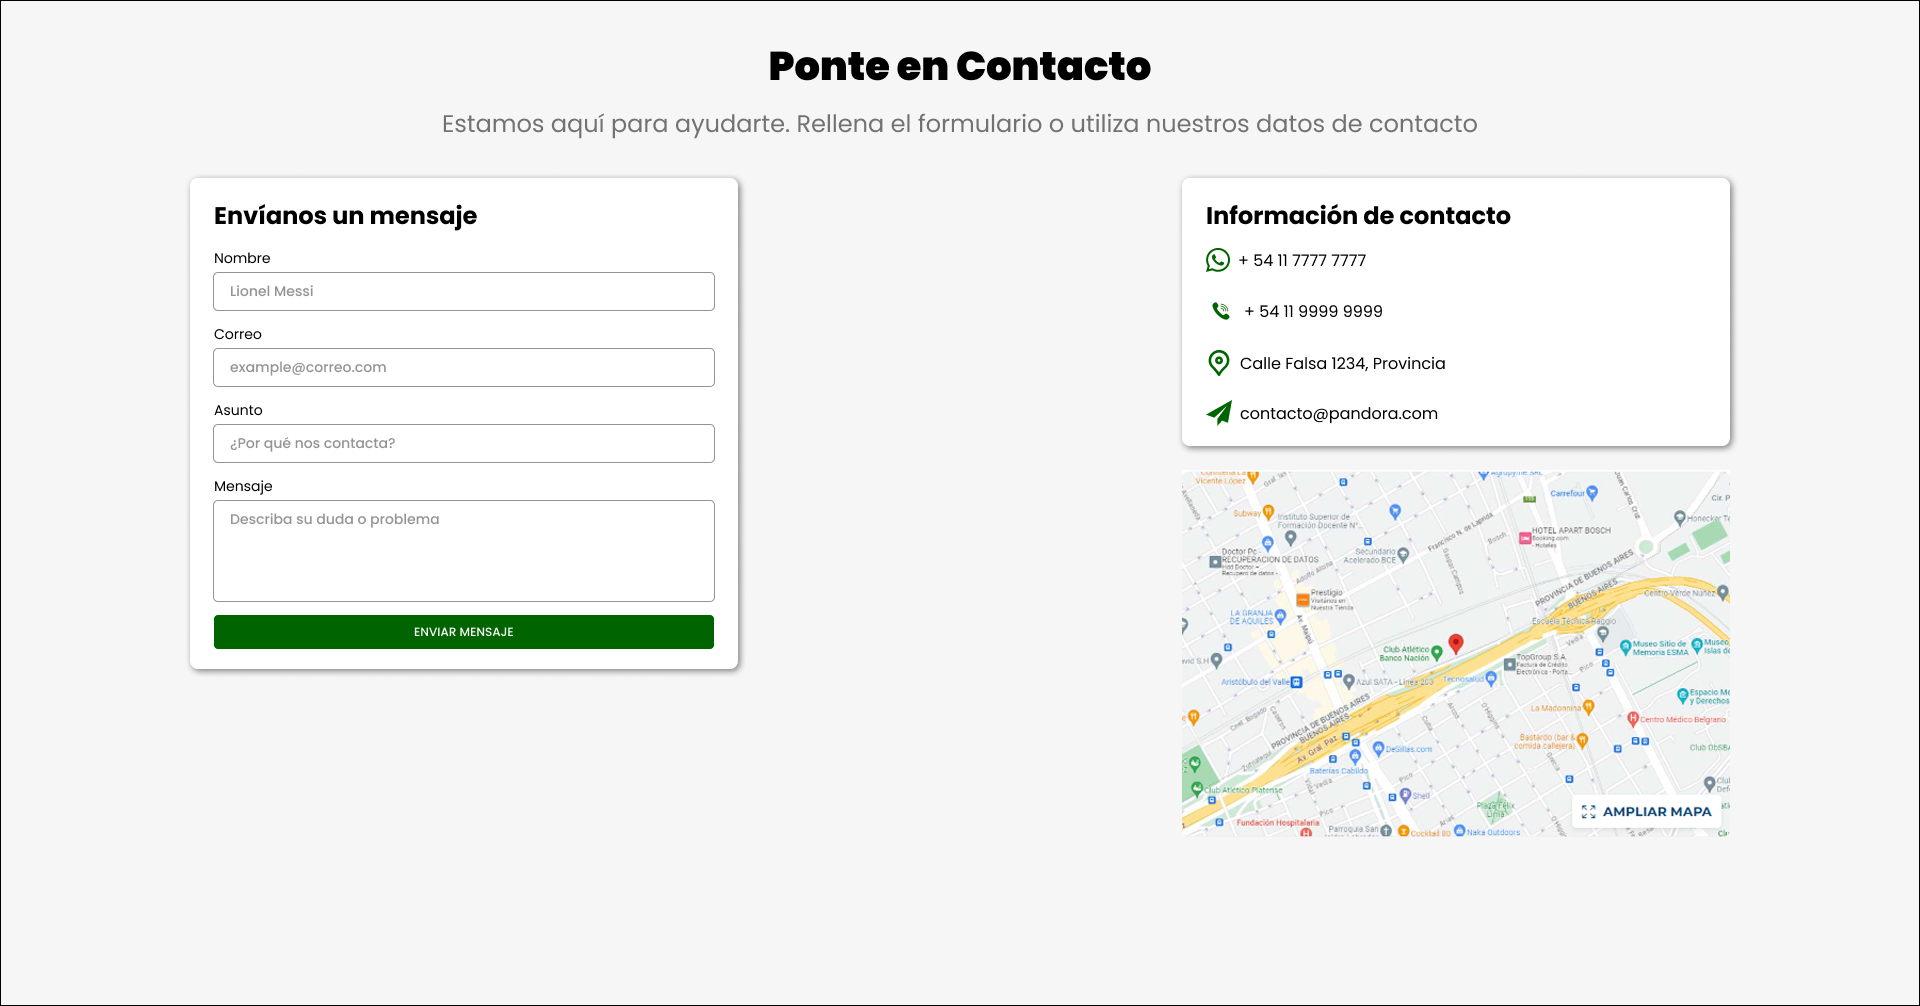
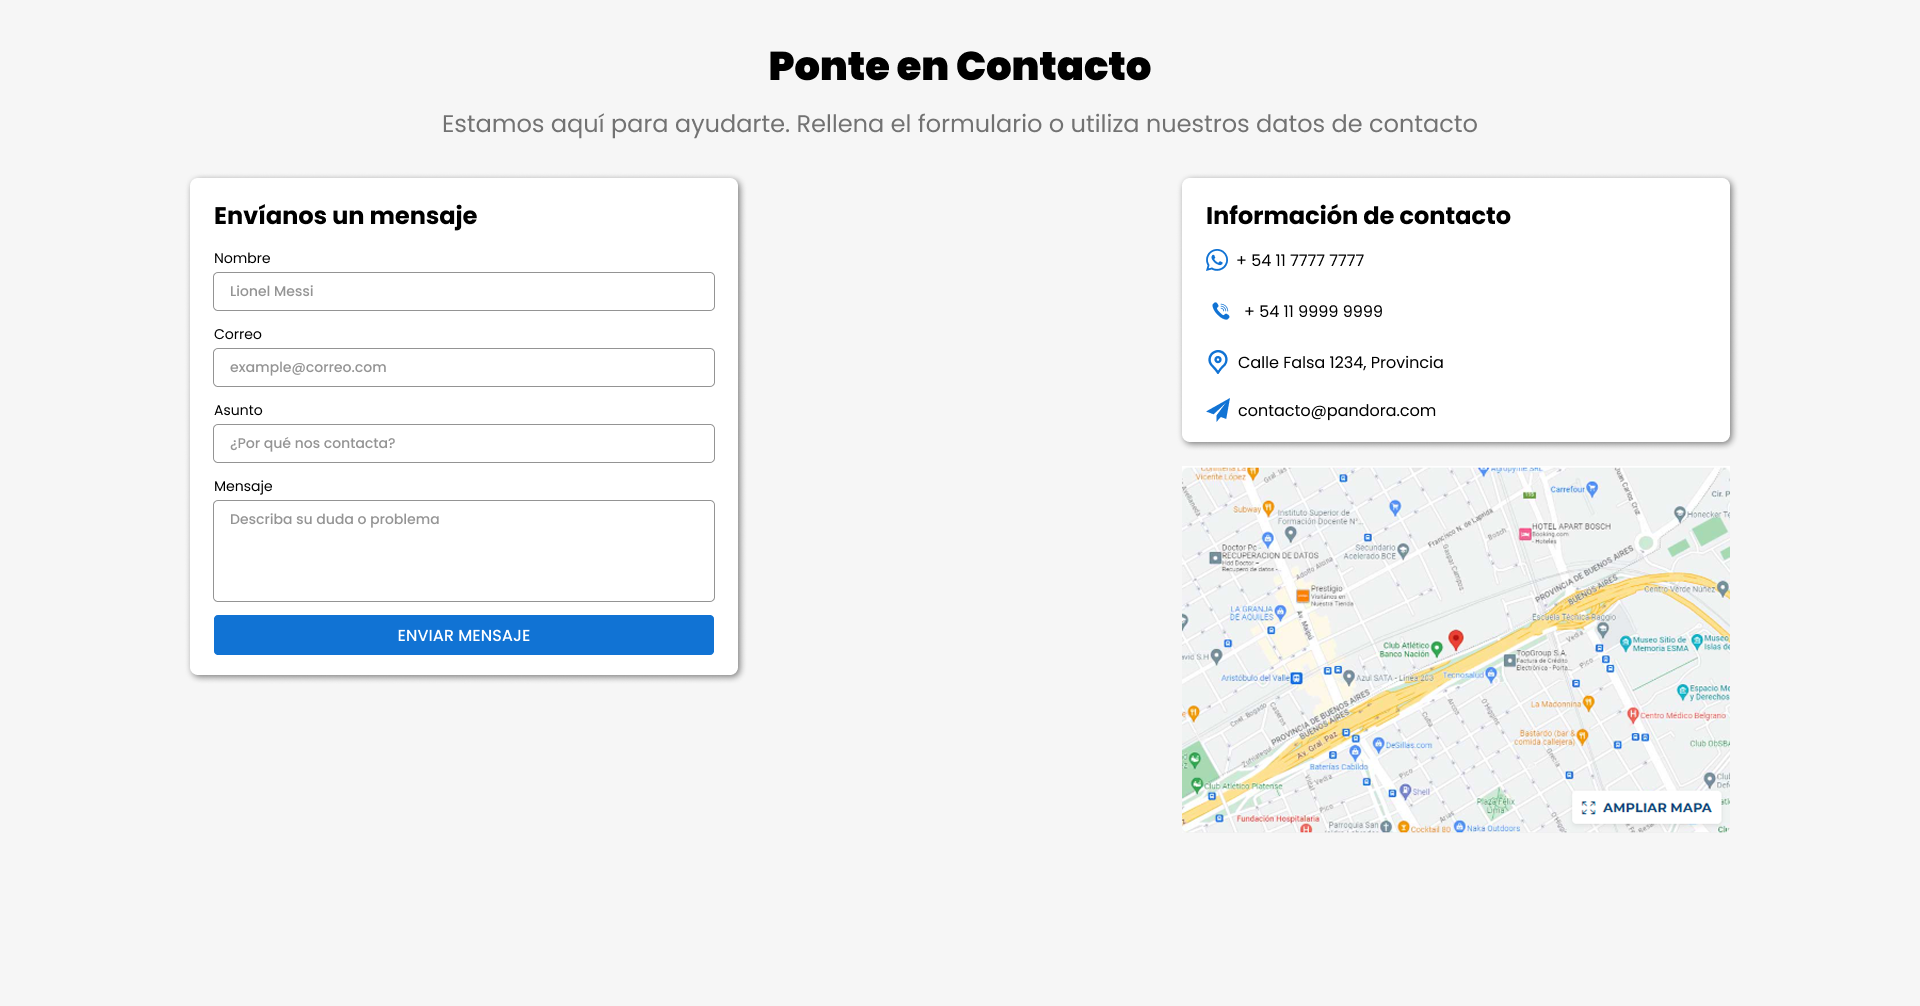
docs: add screenshots for About Us and Reservations sections
- Added new screenshots for "About Us" (nosotros.png) and "Reservations" (reserva.png) pages
- Updated existing screenshots for Home and Contact pages with latest UI
- Added corresponding sections in README.md to showcase new pages

diff --git a/README.md b/README.md
@@ -50,6 +50,14 @@ Correr el apache de xampp e ingresar a <a href="http://localhost">http://localho
 
 <img src="./docs/home.png" alt="Home">
 
+### Sobre nosotros
+
+<img src="./docs/nosotros.png" alt="Nosotros">
+
+### Reservas
+
+<img src="./docs/reservas.png" alt="Reservas">
+
 ### Contacto
 
 <img src="./docs/contacto.png" alt="Contacto">
